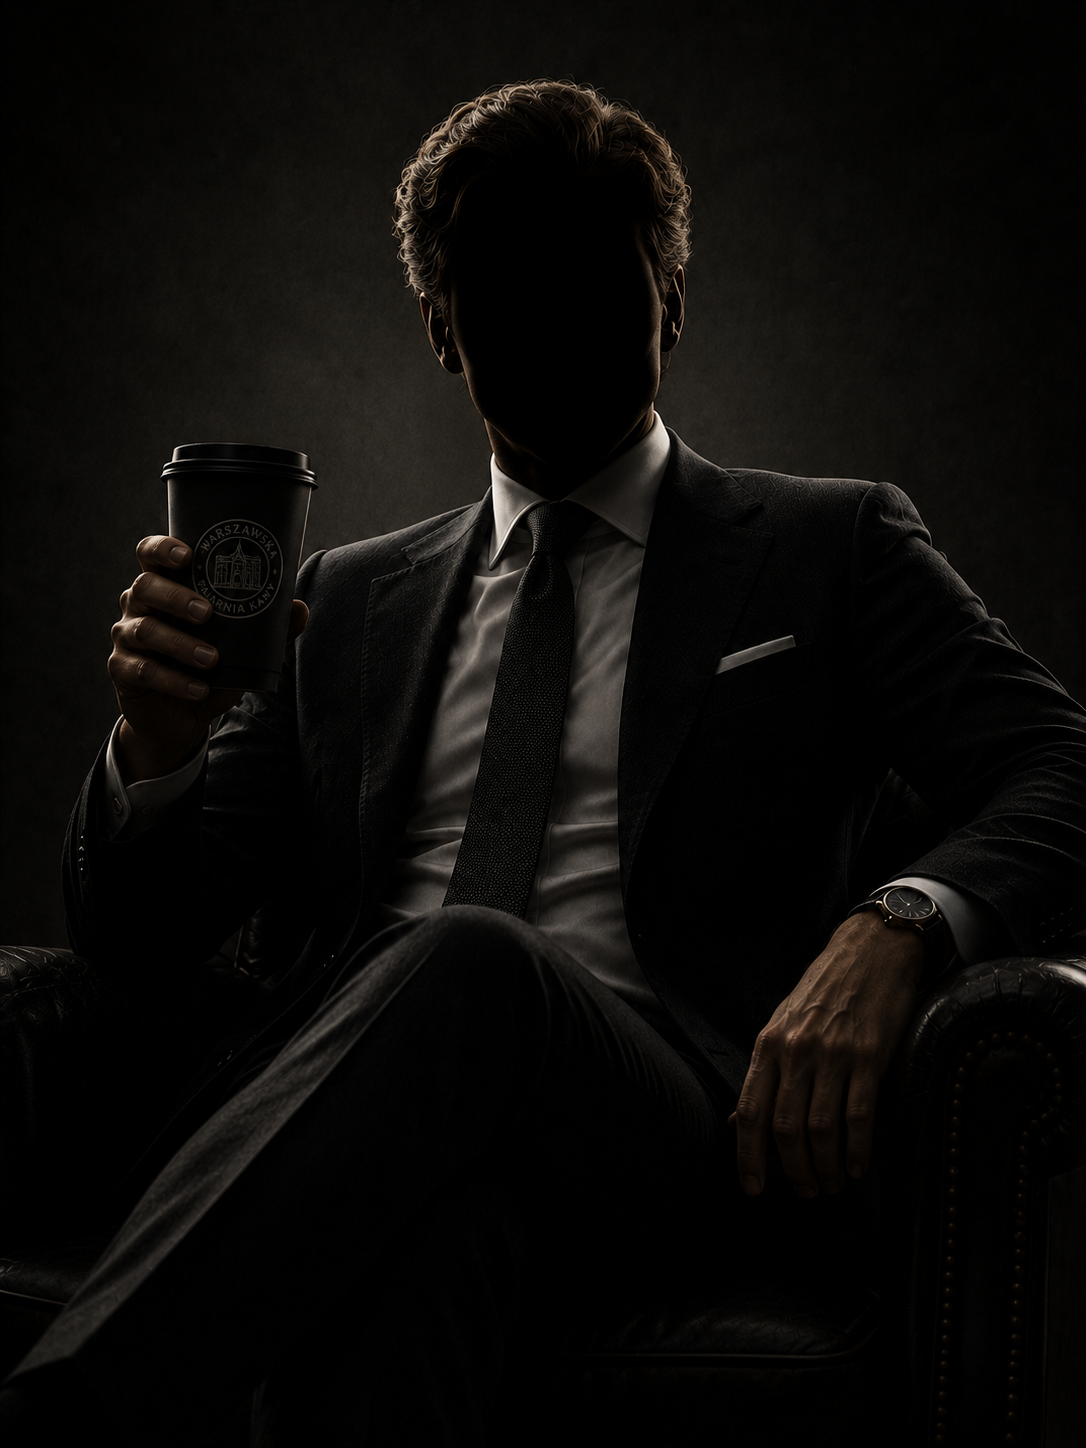
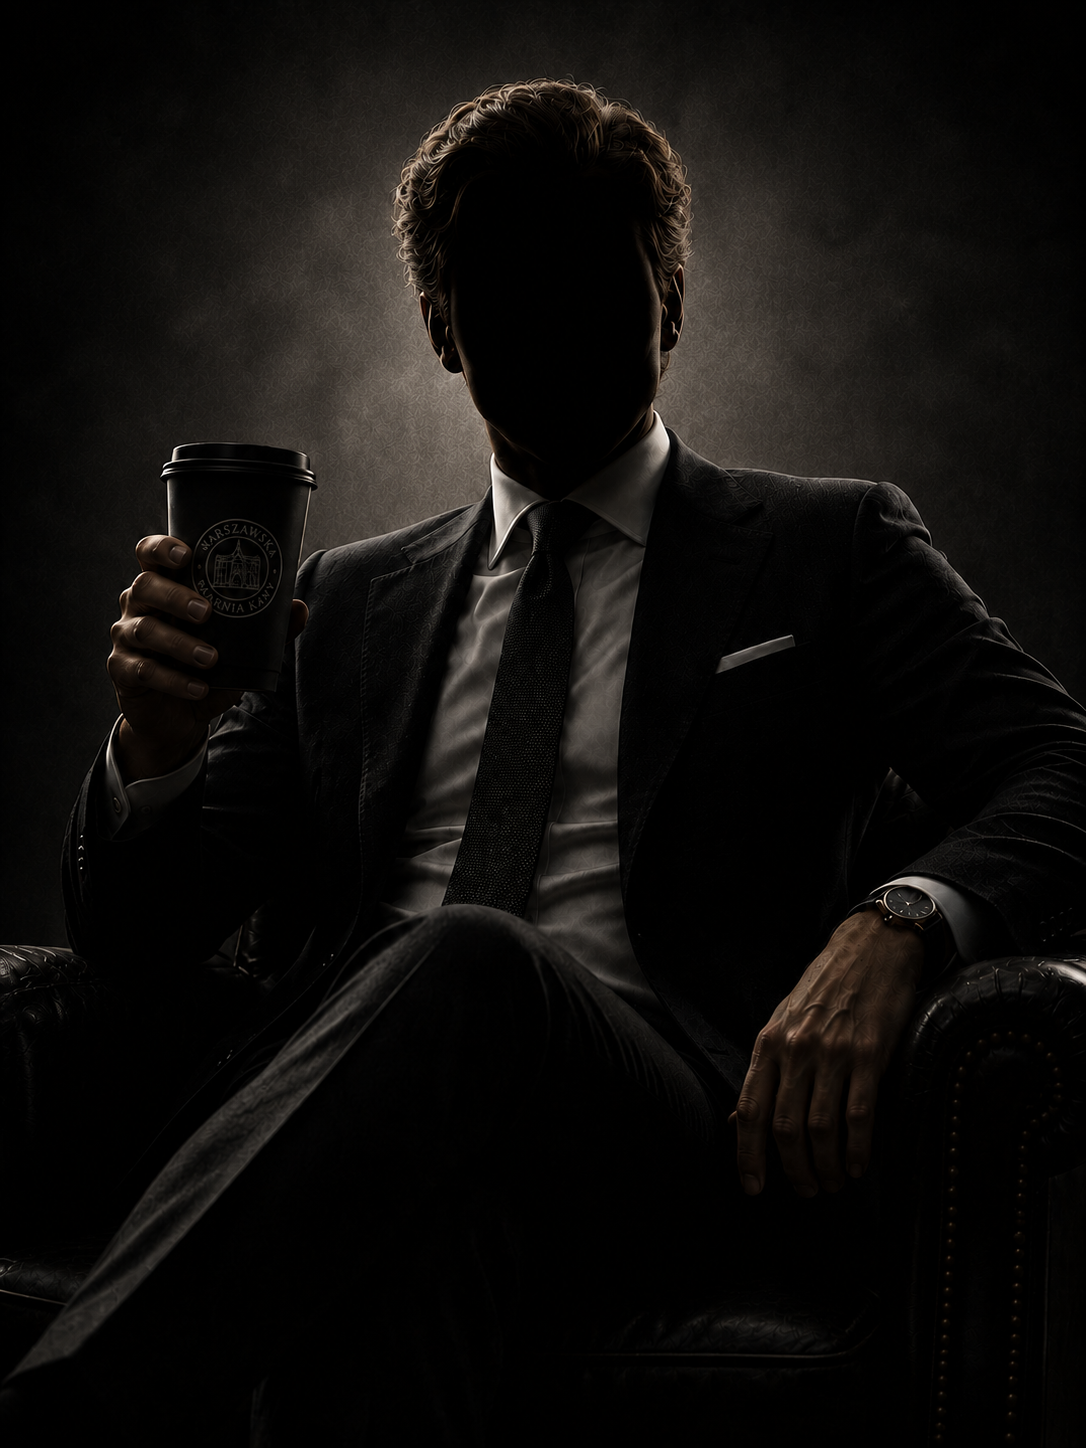
tła kartyy. liquid mat glas.

diff --git a/components/BookDetailsPanel.tsx b/components/BookDetailsPanel.tsx
@@ -1,7 +1,7 @@
 "use client";
 
-import { useEffect, useState, useMemo } from "react";
-import { X, Users } from "lucide-react";
+import { useMemo } from "react";
+import { X, Users, User, Calendar, BookOpen, Tag } from "lucide-react";
 import { seriesLabels } from "@/lib/catalog";
 import type { Book, BookConnection, Character } from "@/lib/types";
 import { CharacterCard } from "@/components/CharacterCard";
@@ -17,6 +17,13 @@ type BookDetailsPanelProps = {
   onUpdateCover: (bookId: string, cover: string) => void;
 };
 
+// Funkcja pomocnicza: wyciąga nazwę pliku z okładki i zamienia ścieżkę na /background/...
+const getBackgroundUrl = (coverPath: string) => {
+  if (!coverPath) return "";
+  const filename = coverPath.split("/").pop(); // Pobiera samo "kasacja.jpg"
+  return `/background/${filename}`;
+};
+
 export function BookDetailsPanel({
   book,
   books,
@@ -28,76 +35,106 @@ export function BookDetailsPanel({
   
   const relatedCharacters = useMemo(() => {
     if (!book) return [];
-    const appearanceIds = appearancesData
+    return appearancesData
       .filter((a) => a.bookId === book.id)
-      .map((a) => a.characterId);
-    return charactersData.filter((c) => appearanceIds.includes(c.id)) as Character[];
+      .map((appearance) => {
+        const char = charactersData.find((c) => c.id === appearance.characterId);
+        return char ? { ...char, isNew: appearance.isNew || false } : null;
+      })
+      .filter((char): char is Character & { isNew: boolean } => !!char);
   }, [book]);
 
-  const relatedConnections = book
-    ? connections.filter((connection) => connection.source === book.id || connection.target === book.id)
-    : [];
-
-  const findBook = (bookId: string) => books.find((item) => item.id === bookId);
+  const backgroundUrl = book ? getBackgroundUrl(book.cover) : "";
 
   return (
     <aside
-      className={`fixed inset-y-0 right-0 z-30 w-1/2 min-w-[520px] max-w-[960px] border-l border-white/10 bg-[#090a0f]/96 shadow-2xl shadow-black/60 backdrop-blur-xl transition-transform duration-300 ${
+      className={`fixed inset-y-0 right-0 z-30 w-1/2 min-w-[520px] max-w-[960px] border-l border-white/10 shadow-2xl shadow-black/80 transition-transform duration-500 ${
         book ? "translate-x-0" : "translate-x-full"
       }`}
     >
       {book ? (
-        <div className="flex h-full flex-col">
-          <div className="flex items-center justify-between border-b border-white/10 px-6 py-5">
-            <div>
-              <p className="text-xs uppercase tracking-[0.2em] text-white/42">Karta książki</p>
-              <h2 className="mt-1 text-xl font-semibold text-white">{book.title}</h2>
-            </div>
-            <button type="button" onClick={onClose} className="grid h-9 w-9 place-items-center border border-white/10 bg-white/[0.04] text-white/70 hover:text-white" style={{ borderRadius: 8 }}>
-              <X size={18} />
-            </button>
+        <div className="relative h-full bg-[#090a0f] overflow-y-auto">
+          
+          {/* PRZYCISK ZAMYKANIA */}
+          <button 
+            onClick={onClose} 
+            className="fixed top-8 right-8 z-50 p-2 rounded-xl bg-black/20 border border-white/10 text-white/50 hover:text-white backdrop-blur-md transition-all hover:bg-white/10"
+          >
+            <X size={20} />
+          </button>
+
+          {/* DEDYKOWANE TŁO Z FOLDERU /background */}
+          <div className="absolute top-0 left-0 right-0 h-[700px] pointer-events-none z-0 overflow-hidden">
+            <div 
+              className="absolute inset-0 bg-cover bg-top blur-[10px] scale-105 opacity-40 transition-all duration-700"
+              style={{ backgroundImage: `url(${backgroundUrl})` }}
+            />
+            {/* Gradient pionowy schodzący w czerń */}
+            <div className="absolute inset-0 bg-gradient-to-b from-transparent via-[#090a0f]/60 to-[#090a0f]" />
+            {/* Gradient poziomy maskujący lewą krawędź */}
+            <div className="absolute inset-0 bg-gradient-to-r from-[#090a0f] via-[#090a0f]/50 to-transparent" />
+            {/* Twardy gradient na samym dole */}
+            <div className="absolute bottom-0 left-0 right-0 h-48 bg-gradient-to-t from-[#090a0f] to-transparent" />
           </div>
 
-          <div className="min-h-0 flex-1 overflow-y-auto px-6 py-6">
-            <div className="grid grid-cols-[128px_1fr] gap-6">
-              {/* Okładka */}
-              <div className="relative h-[184px] overflow-hidden border border-white/10 bg-[#141620]" style={{ borderRadius: 8 }}>
-                <img src={book.cover} alt={book.title} className="h-full w-full object-cover" />
+          {/* GŁÓWNA ZAWARTOŚĆ */}
+          <div className="relative z-10 flex flex-col min-h-full px-8 pt-8 pb-12">
+            
+            <div className="pr-16">
+              <div>
+                <p className="text-[10px] uppercase tracking-[0.2em] text-[#ff7300] font-bold drop-shadow-md">Karta książki</p>
+                <h2 className="mt-1 text-[40px] leading-tight font-bold text-white tracking-tight drop-shadow-lg">{book.title}</h2>
               </div>
-              
-              {/* Układ: Dane (lewo) | Opis (prawo) */}
-              <div className="grid grid-cols-[auto_1fr] gap-8">
-                {/* Seria i Rok */}
-                <dl className="flex flex-col gap-4 text-sm whitespace-nowrap">
-                  <div>
-                    <dt className="text-white/40">Seria</dt>
-                    <dd className="font-medium text-white">{seriesLabels[book.series]}</dd>
-                  </div>
-                  <div>
-                    <dt className="text-white/40">Rok</dt>
-                    <dd className="font-mono text-white">{book.year ?? "brak"}</dd>
-                  </div>
-                </dl>
 
-                {/* Opis */}
-                <div className="rounded-xl border border-white/10 bg-white/[0.03] p-4 text-sm leading-6 text-white/80">
-                  <h3 className="mb-2 text-xs font-semibold uppercase tracking-[0.1em] text-white/40">Opis</h3>
-                  {book.description}
+              <div className="mt-4 flex flex-wrap gap-5 text-[13px] text-white/70 font-medium">
+                <div className="flex items-center gap-1.5 drop-shadow-md">
+                  <User size={14} className="text-white/40" />
+                  <span className="text-white/40">Seria:</span> {seriesLabels[book.series]}
+                </div>
+                <div className="flex items-center gap-1.5 drop-shadow-md">
+                  <Calendar size={14} className="text-white/40" />
+                  {book.year ?? "---"}
+                </div>
+                <div className="flex items-center gap-1.5 drop-shadow-md">
+                  <BookOpen size={14} className="text-white/40" />
+                  <span className="text-white/40">Tom</span> {book.volume ?? "1"}
+                </div>
+                <div className="flex items-center gap-1.5 drop-shadow-md">
+                  <Tag size={14} className="text-white/40" />
+                  {book.genre ?? "Thriller prawniczy"}
                 </div>
               </div>
             </div>
 
-            {/* Postacie */}
-            <section className="mt-9">
-              <h3 className="text-sm font-semibold uppercase text-white/44 mb-4 flex items-center gap-2">
-                <Users size={15} /> Postacie ({relatedCharacters.length})
-              </h3>
-              <div className="grid grid-cols-3 gap-4">
+            {/* SEKCJA OKŁADKI I OPISU - Zmiana na items-center */}
+            <div className="flex gap-8 mt-10 items-center">
+              
+              <div className="w-[180px] flex-shrink-0">
+                <div className="relative aspect-[2/3] w-full overflow-hidden rounded-xl border border-white/15 bg-black/40 shadow-[0_12px_40px_rgb(0,0,0,0.6)]">
+                  <img src={book.cover} alt={book.title} className="h-full w-full object-cover" />
+                </div>
+              </div>
+              
+              <div className="flex-grow rounded-2xl border border-white/5 bg-white/[0.04] backdrop-blur-xl p-7 shadow-xl shadow-black/50">
+                <h3 className="mb-4 text-[11px] font-bold uppercase tracking-[0.15em] text-[#ff7300]">Opis</h3>
+                <p className="text-white/80 leading-loose text-[14px] font-normal">{book.description}</p>
+              </div>
+            </div>
+
+            <section className="mt-8">
+              <div className="flex items-center justify-between mb-5 pb-3 border-b border-white/5">
+                <h3 className="text-[13px] font-bold uppercase tracking-wider text-white/50 flex items-center gap-2 drop-shadow-md">
+                  Postacie ({relatedCharacters.length})
+                </h3>
+              </div>
+              
+              <div className="grid grid-cols-3 gap-5 auto-rows-min">
                 {relatedCharacters.map((char) => (
                   <CharacterCard key={char.id} character={char} />
                 ))}
               </div>
             </section>
+            
           </div>
         </div>
       ) : null}

diff --git a/components/CharacterCard.tsx b/components/CharacterCard.tsx
@@ -11,7 +11,7 @@ const seriesIcons: Record<string, string> = {
 };
 
 interface CharacterCardProps {
-  character: Character;
+  character: Character & { isNew?: boolean };
 }
 
 export function CharacterCard({ character }: CharacterCardProps) {
@@ -25,12 +25,22 @@ export function CharacterCard({ character }: CharacterCardProps) {
 
   return (
     <div 
-      className="flex flex-col w-full shrink-0 overflow-hidden rounded-xl bg-[#0f1115] border border-white/5 transition-transform duration-300 hover:scale-[1.02]"
+      className="flex flex-col w-full h-full shrink-0 overflow-hidden rounded-xl bg-[#0f1115] border border-white/5 transition-transform duration-300 hover:scale-[1.02]"
       style={{ boxShadow: `0 8px 32px rgba(0,0,0,0.6)` }}
     >
-      <div className="relative h-[260px] bg-[#1a1d24] flex items-center justify-center">
+      {/* Sekcja obrazka */}
+      <div className="relative h-[260px] bg-[#1a1d24] flex items-center justify-center shrink-0">
         
-        {/* Ikona */}
+        {/* Etykieta NEW - przezroczysty środek, zielona obwódka */}
+        {character.isNew && (
+          <div className="absolute top-4 right-4 z-30 animate-pulse">
+            <div className="border border-[#00ff1a] text-[#00ff1a] text-[8px] font-bold uppercase px-2 py-0.5 rounded-md tracking-widest leading-none bg-black/20 backdrop-blur-sm">
+              New
+            </div>
+          </div>
+        )}
+
+        {/* Ikona serii */}
         {seriesIcons[seriesId] && (
           <div 
             className="absolute top-4 left-4 z-20 w-8 h-8 opacity-90"
@@ -62,12 +72,11 @@ export function CharacterCard({ character }: CharacterCardProps) {
         <div className="absolute inset-x-0 bottom-0 z-10 h-32 bg-gradient-to-t from-[#0f1115] to-transparent pointer-events-none" />
       </div>
 
-      <div className="relative z-20 flex flex-col px-4 pb-5 pt-0 text-center">
+      {/* Sekcja tekstowa */}
+      <div className="relative z-20 flex flex-col px-4 pb-5 pt-0 text-center flex-grow">
         
-        {/* TYPOGRAFIA POSTACI - SZTYWNY UKŁAD */}
-        <div className="flex flex-col items-center justify-start min-h-[76px]">
+        <div className="flex flex-col items-center justify-start min-h-[92px]">
           
-          {/* 1. Imię i Nazwisko (Sztywna wysokość na max 2 linijki tekstu) */}
           <div className="flex flex-col items-center justify-end min-h-[44px] mb-1">
             <h3 className="flex flex-col text-[17px] sm:text-lg font-bold text-white/95 uppercase tracking-widest leading-[1.1]">
               <span>{firstName}</span>
@@ -75,7 +84,6 @@ export function CharacterCard({ character }: CharacterCardProps) {
             </h3>
           </div>
           
-          {/* 2. Pseudonim (Zawsze renderowany, przezroczysty jeśli go brak) */}
           <span 
             className={`text-[10px] font-medium tracking-widest uppercase mb-1 ${
               character.pseudonym ? "text-white/50" : "opacity-0 select-none"
@@ -84,7 +92,6 @@ export function CharacterCard({ character }: CharacterCardProps) {
             {character.pseudonym ? `"${character.pseudonym}"` : '"BRAK"'}
           </span>
 
-          {/* 3. Rola (Kolorowa, zawsze na tej samej wysokości) */}
           <span 
             className="text-[10px] font-bold uppercase tracking-widest mt-0.5"
             style={{ color: brandColor }}
@@ -93,8 +100,8 @@ export function CharacterCard({ character }: CharacterCardProps) {
           </span>
         </div>
 
-        {/* DOLNE METADANE (Seria i Debiut) */}
-        <div className="mt-5 flex items-end justify-between">
+        {/* DOLNE METADANE */}
+        <div className="mt-auto flex items-end justify-between pt-4">
           <div className="flex flex-col items-start gap-1.5 w-1/2">
             <span className="text-[8px] sm:text-[9px] text-white/40 uppercase tracking-widest truncate w-full text-left">
               Seria